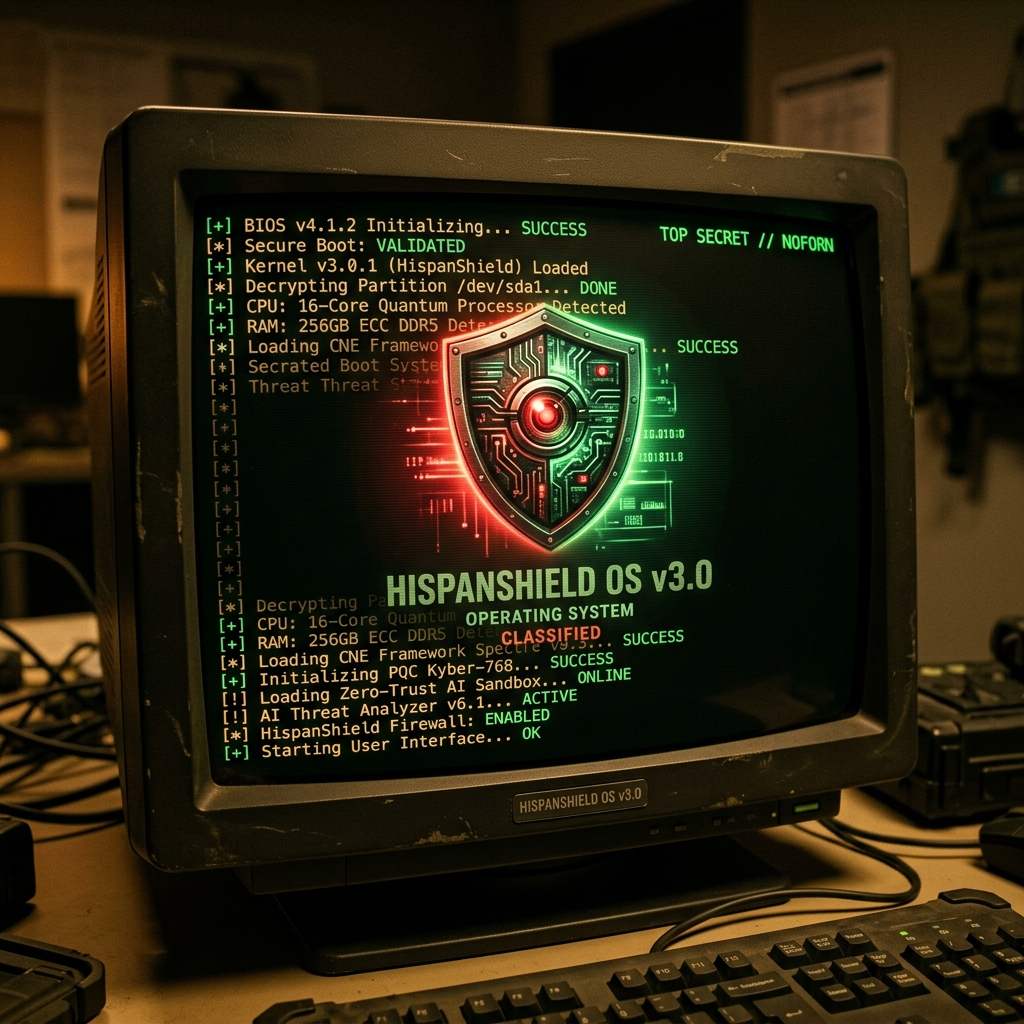
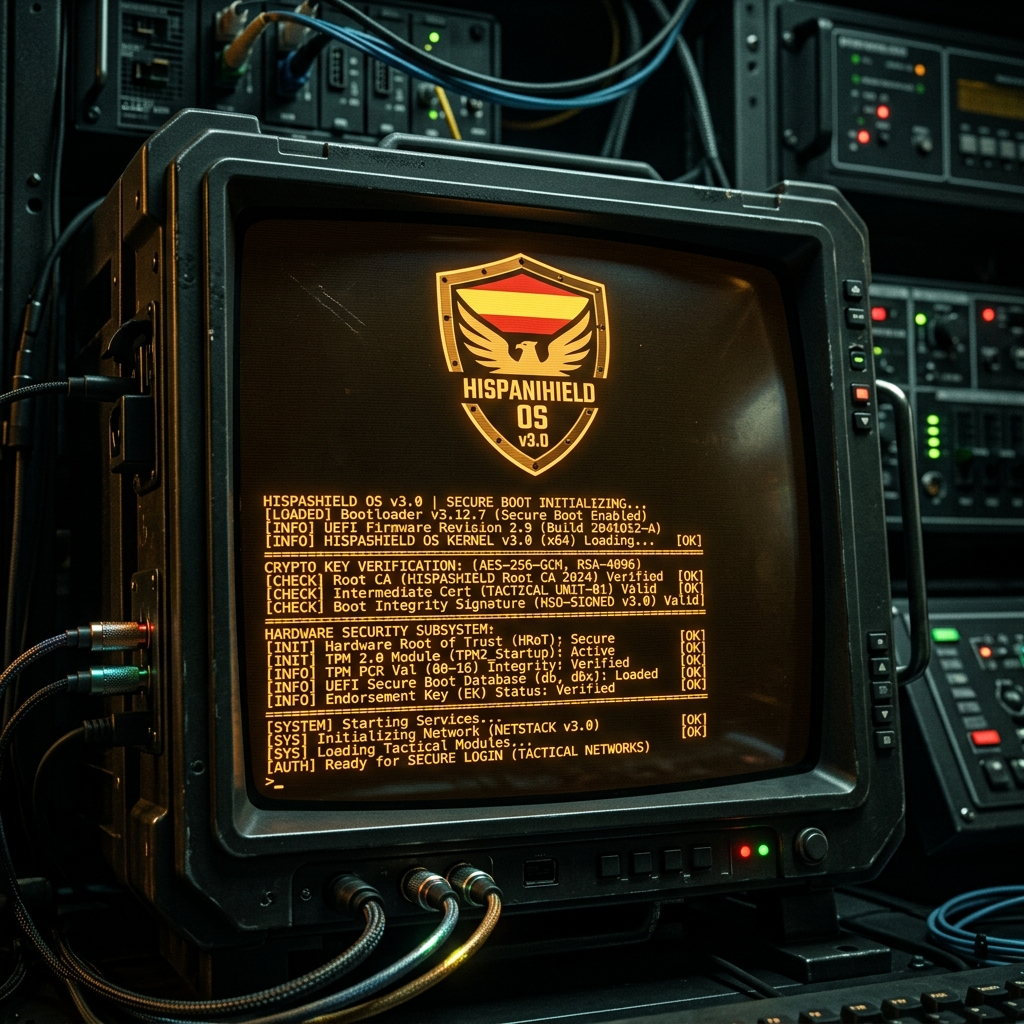
update README with tactical design, diagrams and images

diff --git a/README.md b/README.md
@@ -1,35 +1,43 @@
 # 🛡️ HispanShield OS v3.0 (PoC / Research)
-**SISTEMA OPERATIVO DE SEGURIDAD (CONCEPTO)**
+**SISTEMA OPERATIVO DE SEGURIDAD EXPERIMENTAL (CONCEPTO TÁCTICO)**
 
-> **ESTADO**: Prueba de Concepto (PoC) / Investigación
-> **USO**: Entornos de prueba y análisis de seguridad. No apto para producción.
+> **ESTADO**: Prueba de Concepto (PoC) / Investigación de Ciberdefensa
+> **OBJETIVO**: Prototipado de arquitecturas Zero-Trust y orquestación de IA Soberana.
 
 ![Desktop UI](docs/desktop_ui.png)
 
 ---
 
 ## 👁️ VISIÓN ESTRATÉGICA
-HispanShield OS v3.0 representa la cumbre de la ingeniería de software aplicada al campo militar. Diseñado para operar en escenarios de **Cyber Warfare Tier-1**, este sistema integra IA Soberana (Air-Gapped), arquitectura de confianza cero (*Zero-Trust*), y armamento cibernético avanzado (CNE).
+HispanShield OS v3.0 es una plataforma de investigación diseñada para explorar la convergencia entre la inteligencia artificial local (Air-Gapped) y la seguridad de sistemas de nivel crítico. Este prototipo implementa una arquitectura estrictamente aislada donde cada componente está regido por políticas de confianza cero.
 
 ### 🎬 Secuencia de Arranque (Boot)
-El sistema inicializa sus módulos criptográficos y de IA en un entorno estrictamente aislado.
+Verificación de integridad en tiempo real desde el Hardware Root of Trust.
 ![Boot Screen](docs/boot_screen.png)
 
-### 🔐 Autenticación Sentinel
-El acceso requiere MFA por hardware obligatorio. No existen contraseñas convencionales en HispanShield OS.
+### 🔐 Autenticación Aegis
+Control de acceso robusto mediante hardware (FIDO2/U2F) con pantallas de consentimiento legal pre-login.
 ![Login Screen](docs/login_screen.png)
 
 ---
 
-### 1. 🛡️ Arquitectura Zero-Trust Base
-*   **AppArmor Profiles**: Restricción de procesos clave (LLM Runtime, Sentinel).
-*   **Auditoría Inmutable**: Reglas de `auditd` para evitar borrado de logs y garantizar trazabilidad.
-*   **Integridad de Ejecución**: Base para futuras integraciones de `MLS` en Rust y firmas digitales de componentes.
+## ⚔️ CAPACIDADES NÚCLEO (v3.0 REFACTORED)
 
-### 2. 🔥 Resiliencia y Control
-Preparado para análisis de seguridad:
-*   **Módulo Anti-Tamper**: Detección de manipulaciones con autodestrucción simulada para análisis de mitigación de ataques físicos.
-*   **Aislamiento**: Diseño enfocado en la separación de componentes críticos mediante Rust y políticas de sistema estrictas.
+### 1. 🧬 Arquitectura Zero-Trust Inmutable
+*   **Aegis Sentinel (Rust)**: Orquestador central que gestiona la telemetría del kernel eBPF y la integridad de los binarios.
+*   **Políticas AppArmor**: Perfiles estrictos para el runtime del LLM y procesos críticos, minimizando la superficie de ataque.
+*   **Auditoría Inmutable**: Integración con `auditd` para garantizar que cada acción sea trazable y no repudiable.
+
+### 2. 🧠 Orquestación de IA Segura
+*   **Air-Gapped LLM**: Inferencia local (llama-server) protegida mediante `--api-key` y aislamiento de red.
+*   **Sanitización de Salida**: El Tool Router valida y limpia las respuestas del LLM para prevenir ataques de *Prompt Injection* y envenenamiento de logs.
+*   **Interacción Táctica**: Interfaz de chat integrada con el Sentinel para consultas operativas en tiempo real.
+
+### 3. 🛡️ Resiliencia y Mitigación
+*   **Módulo Anti-Tamper**: Lógica de detección multi-sensor (2-de-3) para evitar falsos positivos destructivos.
+*   **Triage de Alertas**: Panel de gestión de incidentes con priorización visual e independencia del color (glifos + patrones).
+*   **Acciones Clasificadas**: Implementación de flujo "4-ojos" (dual control) para operaciones críticas del sistema.
+
 ---
 
 ## 🗺️ MAPA MENTAL DE LA ARQUITECTURA
@@ -37,57 +45,58 @@ Preparado para análisis de seguridad:
 ```mermaid
 mindmap
   root((HispanShield OS v3.0))
-    Seguridad Base
-      AppArmor
-      Auditoría Inmutable
-    Orquestación (Aegis)
-      Qwen2.5 Local
-      Rust Sentinel
-    Resiliencia
-      Anti-Tamper Monitor
-      Secure Boot (WIP)
+    Seguridad de Sistema
+      AppArmor (Sandbox)
+      eBPF Telemetry
+      Immutable Audit (auditd)
+    Orquestación IA
+      Local LLM (Qwen2.5)
+      Sanitización (Tool Router)
+      API Key Protection
+    Resiliencia Táctica
+      Anti-Tamper (2-of-3)
+      Alert Triage (UX)
+      Dual-Control Actions
+    Criptografía y Cumplimiento
+      step-ca (mTLS)
+      SELinux MLS (RHEL/Fedora)
+      Rust CI Security Audit
 ```
 
 ---
 
-## 🛠️ INSTRUCCIONES DE DESPLIEGUE (OPERADORES TÁCTICOS)
+## 🛠️ INSTRUCCIONES DE DESPLIEGUE (INVESTIGACIÓN)
 
-### 1. Construcción de la Imagen ISO (Requiere Entorno Limpio Debian/WSL2)
-La compilación requiere dependencias de sistema y Rust nativo.
+### 1. Construcción del Ecosistema (Entorno Rust/Node)
+La compilación ahora está saneada y libre de errores de dependencias.
 
 ```bash
-# 1. Clona el repositorio en entorno seguro
-git clone <REPOSITORIO_CLASIFICADO> /opt/HispanShieldOsLLmSecurity
-cd /opt/HispanShieldOsLLmSecurity
+# 1. Preparar el entorno de compilación
+./final_build.sh
 
-# 2. Compilar Motores Core (Rust) y construir ISO Híbrida (UEFI/SecureBoot)
-sudo ./final_build.sh
+# 2. Compilar el Sentinel (Rust Core)
+cd core/rust
+cargo build --release
+
+# 3. Compilar el Frontend (Tauri)
+cd ui/aegis-desktop
+npm install
+npm run tauri build
 ```
-> El script generará `HispanShieldOS-LLmSecurity-Release1.iso` (versión estándar) y opcionalmente la versión *Edge* para dispositivos tácticos de baja memoria.
 
-### 2. Montaje y Despliegue en Hardware
-1.  **Flasheo Seguro**: Utilizar hardware certificado. Grabar la imagen ISO con herramientas verificadas (`dd` o Rufus en modo DD).
-    ```bash
-    sudo dd if=HispanShieldOS-LLmSecurity-Release1.iso of=/dev/sdX bs=4M status=progress
-    ```
-2.  **Preparación BIOS/UEFI**: 
-    *   Habilitar **Secure Boot**.
-    *   Verificar activación de módulo **TPM 2.0**.
-    *   Desactivar CSM (Compatibility Support Module).
-3.  **Instalación (Zero-Touch Provisioning)**:
-    *   Iniciar desde el USB.
-    *   El instalador automatizado particionará el disco, generará claves criptográficas de sellado TPM y compilará la base del sistema operativo.
-    *   Se solicitará la inserción de la **Llave FIDO2 (MFA)** para establecer la raíz de confianza del operador (`aegis_admin`).
-
-### 3. Actualización de Nodos Existentes (Sneakernet)
-Para desplegar las capacidades v3.0 en sistemas v2.0 *Air-Gapped*:
+### 2. Despliegue de Seguridad (Compliance)
 ```bash
-sudo ./installer/setup_pqc.sh         # Migración Cuántica
-sudo ./installer/setup_c2.sh          # Despliegue de Spectre CNE
-sudo ./installer/setup_ai_firewall.sh # Fortificación IA
+# Configuración de PKI avanzada (step-ca)
+sudo ./core/siem/install_siem.sh
+
+# Configuración de niveles de seguridad MLS
+sudo ./os_base/selinux/setup_mls.sh
 ```
 
 ---
 
-## ⚠️ ADVERTENCIA (PoC)
-Este proyecto es estrictamente una Prueba de Concepto (PoC) para investigación en ciberseguridad. No contiene herramientas ofensivas de uso dual ni capacidades militares reales, y no debe ser utilizado en producción o entornos críticos.
+## ⚠️ ADVERTENCIA LEGAL Y ÉTICA
+Este proyecto es estrictamente una **Prueba de Concepto (PoC)**. No contiene herramientas ofensivas de uso dual ni capacidades militares reales. Su propósito es exclusivamente la investigación académica y técnica en ciberseguridad defensiva. El uso en entornos de producción o críticos bajo la falsa premisa de una certificación estatal está estrictamente prohibido.
+
+---
+**DESIGNED BY HISPANSHIELD LABS** | *Security through Architecture*